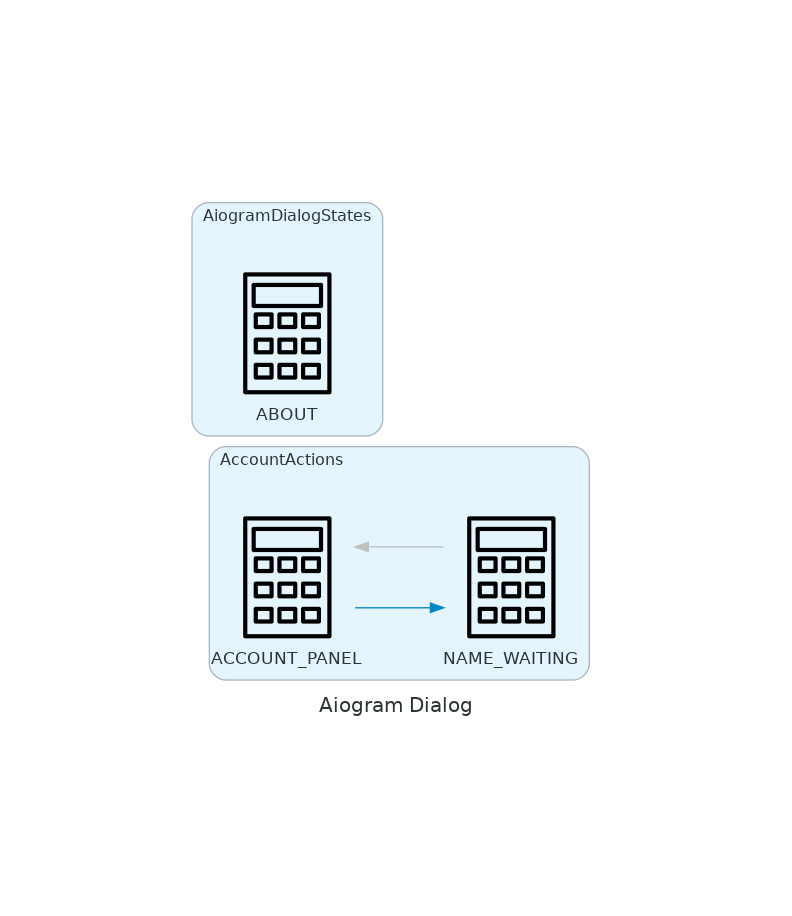
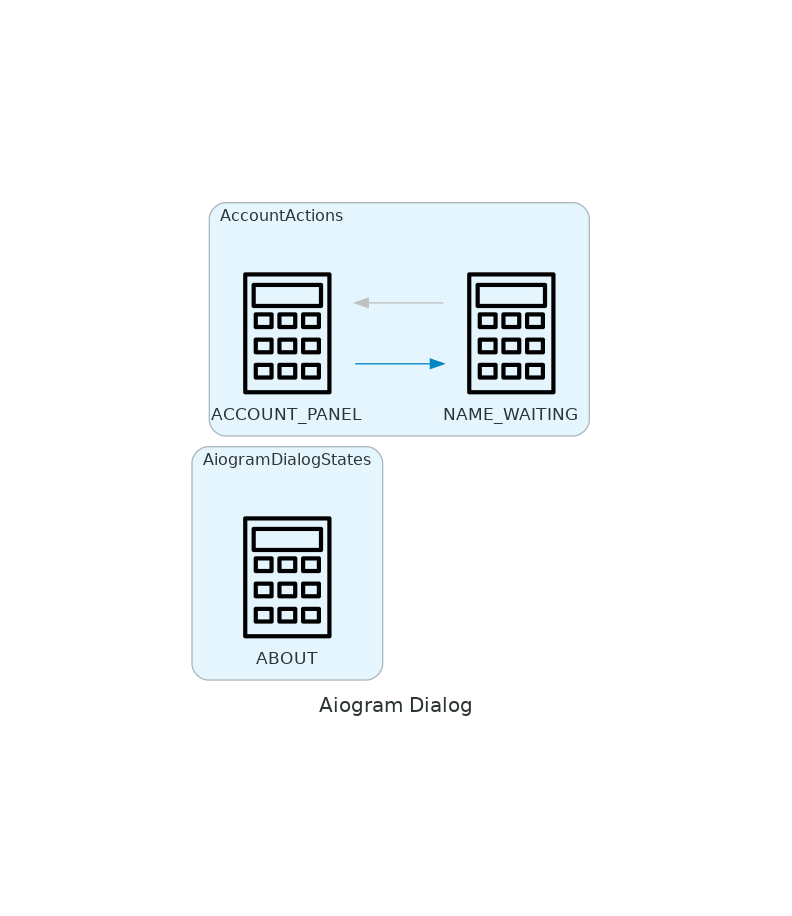
Fix other handlers (open dialog does not skip update).
Fixed /support command.
Refactored admin support handler.

Changed ChatAction middleware to native.

Changed region(s): [[0.2424, 0.214, 0.7576, 0.7642]]

diff --git a/telegram_bot/handlers/admin/main.py b/telegram_bot/handlers/admin/main.py
@@ -1,4 +1,4 @@
-from aiogram import F, Router, types
+from aiogram import Router, types
 from aiogram.types import CallbackQuery
 from fluent.runtime import FluentLocalization
 
@@ -6,7 +6,7 @@ from database import async_session
 from database.enums import AdminPrivilege, ApplyStatus
 from database.methods import update_apply_status
 from database.models import User
-from filters import FromBotToAdminFilter, PrivilegeFilter
+from filters import FromBotToAdminFilter, IsSupportReplyFilter, PrivilegeFilter
 from keyboards.callback_factories import PKApplyFactory, SupportFactory
 from keyboards.inline import verification_request_ikb, verified_request_ikb
 from utils import escape_md_v2
@@ -16,29 +16,18 @@ admin_router = Router()  # TODO Check privileges
 admin_router.include_routers(admin_menu_router)
 
 
-# TODO Refactor filter
-@admin_router.message(
-	FromBotToAdminFilter(),
-	F.reply_to_message.text.split("\n")[-1].startswith(SupportFactory.__prefix__)
-)
-async def send_support_h(msg: types.Message, l10n: FluentLocalization):
-	original = msg.reply_to_message
-	data = SupportFactory.unpack(original.text.split('\n')[-1])
-	await msg.bot.send_message(
-		chat_id=data.user_id,
-		text=escape_md_v2(msg.text),
-		reply_to_message_id=data.message_id
-	)
-	await msg.answer(l10n.format_value("support-sent"))
+@admin_router.message(FromBotToAdminFilter(), IsSupportReplyFilter())
+async def send_support_h(msg: types.Message, support_data: SupportFactory, l10n: FluentLocalization):
+	try:
+		await msg.bot.send_message(support_data.user_id, escape_md_v2(msg.text), reply_to_message_id=support_data.message_id)
+	except:
+		await msg.answer(l10n.format_value("support-sent-error"))
+	else:
+		await msg.answer(l10n.format_value("support-sent"))
 
 
 @admin_router.callback_query(PKApplyFactory.filter(), PrivilegeFilter(AdminPrivilege.EDIT_PK_APPLY))
-async def apply_verify_h(
-		clb: CallbackQuery,
-		callback_data: PKApplyFactory,
-		l10n: FluentLocalization,
-		cached_user: User
-):
+async def apply_verify_h(clb: CallbackQuery, callback_data: PKApplyFactory, l10n: FluentLocalization, cached_user: User):
 	match callback_data.decision:
 		case 'approve':
 			status = ApplyStatus.APPROVED

diff --git a/telegram_bot/filters/main.py b/telegram_bot/filters/main.py
@@ -7,6 +7,7 @@ from structlog.typing import FilteringBoundLogger
 from database import async_session
 from database.methods import get_privilege_by_user, get_user_by_telegram_id
 from env import TelegramKeys
+from keyboards.callback_factories import SupportFactory
 from middlewares import L10N_FORMAT_KEY, LOGGING_KEY
 
 
@@ -51,3 +52,21 @@ class PrivilegeFilter(BaseFilter):
 			privilege = await get_privilege_by_user(session, user.id)
 
 		return privilege and (privilege.privilege & self.privilege)
+
+
+class IsSupportReplyFilter(BaseFilter):
+	def __init__(self, line_index: int = -1):
+		self.line_index = line_index
+
+	async def __call__(self, message: Message) -> dict[str, SupportFactory]:
+		original = message.reply_to_message
+		if not original or not original.text:
+			return False
+
+		line = original.text.strip().split("\n")[self.line_index]
+		try:
+			support_data = SupportFactory.unpack(line)
+		except ValueError | TypeError:
+			return False
+
+		return {'support_data': support_data}

diff --git a/telegram_bot/handlers/user/help.py b/telegram_bot/handlers/user/help.py
@@ -1,5 +1,5 @@
 from aiogram import Router, types
-from aiogram.filters import Command
+from aiogram.filters import Command, or_f
 from aiogram.fsm.context import FSMContext
 from fluent.runtime import FluentLocalization
 
@@ -14,13 +14,7 @@ from state_machines.help import HelpActions
 support_router = Router()
 
 
-@support_router.callback_query(Command('support'))
-async def support_command_h(clb: types.CallbackQuery, state: FSMContext, l10n: FluentLocalization):
-	await clb.message.answer(l10n.format_value("helping"), reply_markup=cancel_kb(l10n))
-	await state.set_state(HelpActions.MESSAGE_OR_CANCEL)
-
-
-@support_router.message(LocalizedTextFilter("btn-support"))
+@support_router.message(or_f(Command('support'), LocalizedTextFilter("btn-support")))
 async def support_button_h(msg: types.Message, state: FSMContext, l10n: FluentLocalization):
 	await msg.answer(l10n.format_value("helping"), reply_markup=cancel_kb(l10n))
 	await state.set_state(HelpActions.MESSAGE_OR_CANCEL)

diff --git a/telegram_bot/middlewares/main.py b/telegram_bot/middlewares/main.py
@@ -1,8 +1,8 @@
 from aiogram import Dispatcher
+from aiogram.utils.chat_action import ChatActionMiddleware
 
-from env import TelegramKeys
 from includes import get_fluent_localization
-from middlewares import ChatActionsMw, DropEmptyCallbackMw, L10N_FORMAT_KEY, L10nMw, LOGGING_KEY, LoggingMw, USER_CACHE_KEY, UserCacheMw
+from middlewares import DropEmptyCallbackMw, L10N_FORMAT_KEY, L10nMw, LOGGING_KEY, LoggingMw, USER_CACHE_KEY, UserCacheMw
 from middlewares.single_message import SingleMessageMw
 
 
@@ -36,6 +36,5 @@ def register_middlewares(dp: Dispatcher):
 	dp.callback_query.middleware(user_cache_mw)
 	dp.shutdown.register(user_cache_mw.close)  # close storage connection
 
-	# Typing by flag typing=True
-	chat_actions_mw = ChatActionsMw(enabled=not TelegramKeys.WITHOUT_TYPING)
-	dp.message.middleware(chat_actions_mw)
+	# Typing
+	dp.message.middleware(ChatActionMiddleware())

diff --git a/telegram_bot/dialogs/user/account.py b/telegram_bot/dialogs/user/account.py
@@ -21,7 +21,7 @@ from utils.l10n_format import L10nFormat
 
 async def get_account_data(dialog_manager: DialogManager, **_) -> dict[str, Any]:
 	dd = dialog_manager.dialog_data
-	sd = dialog_manager.start_data
+	sd = dialog_manager.start_data or {}
 
 	# Попробуем из dialog_data, потом start_data
 	full_name = dd.get("full_name", sd.get("fullname"))
@@ -136,5 +136,5 @@ account_dialog = Dialog(
 		Back(L10nFormat("btn-cancel"), 'back2profile', show_mode=ShowMode.EDIT),
 		state=AccountActions.NAME_WAITING,
 	),
-	launch_mode=LaunchMode.ROOT,
+	launch_mode=LaunchMode.STANDARD,
 )

diff --git a/telegram_bot/run.py b/telegram_bot/run.py
@@ -8,7 +8,6 @@ from aiogram.types import BotCommand
 from aiogram_dialog.tools import render_transitions
 from structlog.typing import FilteringBoundLogger
 
-from dialogs import register_dialogs
 from env import TelegramKeys
 from handlers import register_handlers
 from includes import get_storage, setup_logging
@@ -38,8 +37,7 @@ async def main():
 	# Register handlers and middlewares
 	register_handlers(dp)
 	register_middlewares(dp)
-	register_dialogs(dp)
-	
+
 	# Render dialogs preview
 	if TelegramKeys.DEBUG:
 		render_transitions(dp)

diff --git a/telegram_bot/handlers/user/account.py b/telegram_bot/handlers/user/account.py
@@ -2,12 +2,10 @@ from aiogram import Router, types
 from aiogram_dialog import DialogManager, ShowMode
 
 from database.models import User
-from dialogs.user import account_dialog
 from filters import LocalizedTextFilter
 from state_machines.account import AccountActions
 
 account_router = Router()
-account_router.include_router(account_dialog)
 
 
 @account_router.message(LocalizedTextFilter("btn-profile"))

diff --git a/telegram_bot/dialogs/main.py b/telegram_bot/dialogs/main.py
@@ -1,6 +1,9 @@
-from aiogram import Dispatcher
+from aiogram import Dispatcher, Router
 from aiogram_dialog import setup_dialogs
 
+from dialogs.user import account_dialog
 
-def register_dialogs(dp: Dispatcher):
-	setup_dialogs(dp)
+
+def register_dialogs(dp: Dispatcher, router: Router):
+	setup_dialogs(dp)  # Register on dispatcher for using anywhere
+	router.include_router(account_dialog)

diff --git a/telegram_bot/handlers/main.py b/telegram_bot/handlers/main.py
@@ -1,11 +1,16 @@
-from aiogram import Dispatcher
+from aiogram import Dispatcher, Router
 
+from dialogs import register_dialogs
 from .admin import admin_router
 from .user import user_router
 
 
 def register_handlers(dp: Dispatcher):
+	dialogs_router = Router()
+	register_dialogs(dp, dialogs_router)
+
 	dp.include_routers(
 		user_router,
 		admin_router,
+		dialogs_router  # last
 	)

diff --git a/telegram_bot/filters/__init__.py b/telegram_bot/filters/__init__.py
@@ -1,2 +1,2 @@
-from .main import AdminPromocodeCreatingFilter, FromBotToAdminFilter, LocalizedTextFilter, PrivilegeFilter
+from .main import AdminPromocodeCreatingFilter, FromBotToAdminFilter, IsSupportReplyFilter, LocalizedTextFilter, PrivilegeFilter
 from .register import FullNameFilter

diff --git a/telegram_bot/middlewares/__init__.py b/telegram_bot/middlewares/__init__.py
@@ -2,7 +2,6 @@ L10N_FORMAT_KEY = "l10n"
 LOGGING_KEY = "log"
 USER_CACHE_KEY = "cached_user"
 
-from .chat_actions import ChatActionsMw
 from .db_cache import UserCacheMw
 from .drop_nothing import DropEmptyCallbackMw
 from .localization import L10nMw
